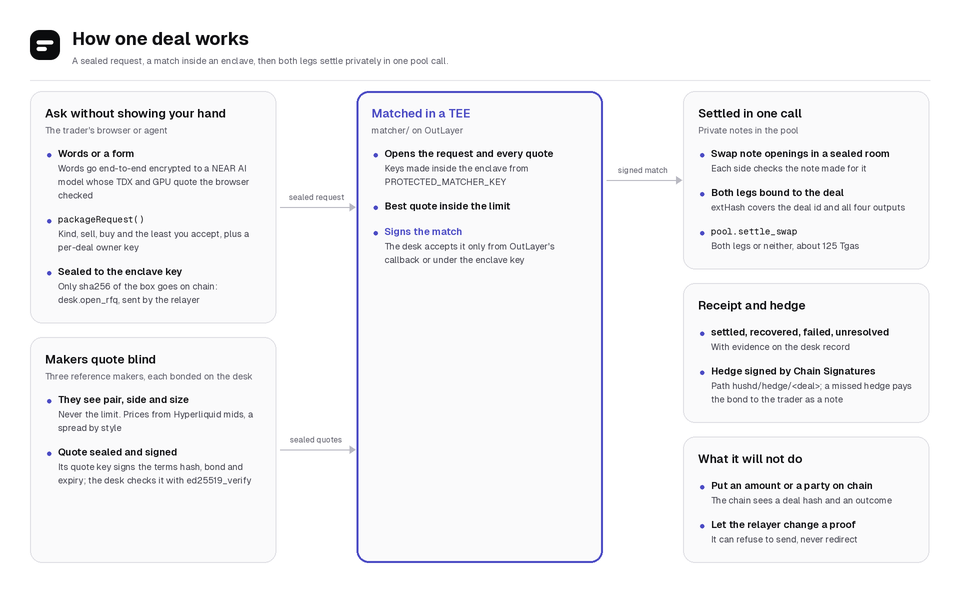
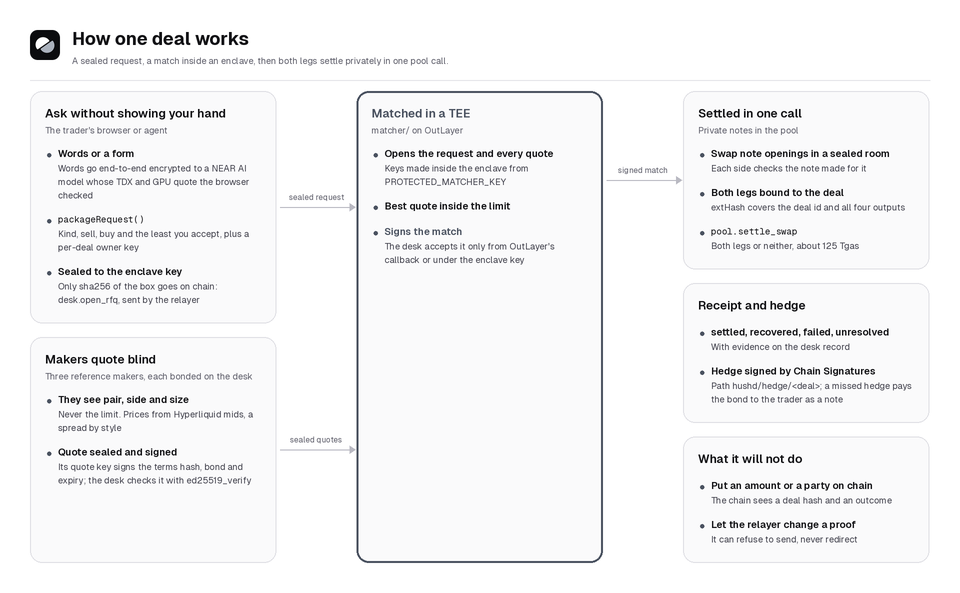
README art, llms.txt and docs for the redesign

diff --git a/tools/make_readme_art.py b/tools/make_readme_art.py
@@ -5,7 +5,7 @@
 
 Why it is built this way (each rule exists because the alternative was measured broken):
 - Colours come from the app's own CSS tokens (app/src/app/globals.css), parsed here, so a
-  figure cannot disagree with the product. The accent is the iris `--accent`.
+  figure cannot disagree with the product. The accent is the graphite steel `--accent`.
 - Every other light colour is the fixed diagram palette, so figures read as one set.
 - The text accent is derived (`readable_accent`) to clear 4.5:1 on both the card and the
   tinted band; the raw accent is decorative only. `audit` runs first and writes nothing on

diff --git a/README.md b/README.md
@@ -13,6 +13,7 @@ Everything runs on NEAR testnet with test tokens.
 ## Try it
 
 - **The desk:** [hushd.net/app](https://hushd.net/app). Sign in with a NEAR wallet or a passkey, take test tokens from the faucet, add them privately, then ask the desk in your own words or with the form.
+- **The trading screen:** [hushd.net/app/trade](https://hushd.net/app/trade). Live Hyperliquid prices for each pair the desk trades, a ticket that seals the request, the makers and their bonds, a payoff chart for hedged packages, and your requests, deals, hedge legs and receipts below.
 - **Check a proof:** [hushd.net/verify](https://hushd.net/verify). Two real ones made for `judge.testnet` are in `deployments/` (a payment that settled desk deal #2, and funds held).
 - **Agents:** connect the hosted, read-only MCP server at `https://hushd.net/mcp`, or run your own with a seed and spending limits (see [Agents](#agents)).
 - **The live claims, checked:** `pnpm verify` checks the deployment against this README (contracts, their code and the commit each was built from, the enclave key, bonded makers, settled deals, the services and the indexer, the agents' policy wallets, a trade checked by `intents.near` on mainnet, the intake attestation and a signed intake answer, private x402, the hosted MCP and an on-chain proof check) and prints PASS or FAIL for each.
@@ -155,7 +156,7 @@ That finding, the three Medium and six Low, and what changed for each are in [SE
 ## Mainnet
 
 Hushd runs on testnet, and every part is built to run on mainnet too: going live is a deploy and environment switches, with no code changes.
-`pnpm --filter @hushd/services mainnet:sandbox` runs the mainnet build end to end on a local node holding the real mainnet USDC, `wrap.near` and nBTC code: a deploy as `hushd.near`, the services on mainnet settings, and an agent that shields, sends, trades two pairs, cashes out, proves and pays over x402 (16 of 16 checks pass).
+`pnpm --filter @hushd/services mainnet:sandbox` runs the mainnet build end to end on a local node holding the real mainnet USDC, `wrap.near` and nBTC code: a deploy as `hushd.near`, the services on mainnet settings, and an agent that shields, sends, trades two pairs, cashes out, proves and pays over x402 (17 of 17 checks pass).
 Mainnet still needs a multi-party proving-key ceremony first (`circuits/scripts/ceremony.mjs`); [MAINNET.md](MAINNET.md) has what is ready, how it was tested and the steps to go live.
 
 ## Repository

diff --git a/CLAUDE.md b/CLAUDE.md
@@ -23,4 +23,10 @@
 - Mainnet is one code path with testnet: `HUSHD_NETWORK` (services, MCP) and `NEXT_PUBLIC_HUSHD_NETWORK` (app) pick everything. Never add a testnet-only constant; put it in the SDK's network config or a deploy profile (`services/scripts/deploy.ts`).
 - `mainnet:sandbox` needs the doubles' wasm, a native matcher build (`cargo build --release --target <host>` in matcher/) and Postgres; it uses ports 9080 and 9787-9792 and database hushd_sandbox, so it runs beside the testnet stack. It patches mainnet account ids into the node; the real tokens' admin roles belong to the sandbox's operators.
 - Mainnet cash outs pay the relayer a fee in the token itself: the relayer must be registered for storage on every token (the deploy does it).
+- Design is graphite: no hue anywhere (accent is steel, `--accent` in `app/src/app/globals.css`). Shared parts: `hd-frame`, `hd-crop` (crop marks), `hd-sheen`, `Spotlight`, `Reveal`, `hd-index`, `hd-grid-lines`.
+  CSS written outside an `@layer` beats Tailwind utilities (`fixed`, `absolute`, `bg-*`): put new classes in `@layer components`.
+- The mark lives in `app/src/components/Logo.tsx` (paths); `node app/scripts/make-icons.mjs` redraws the favicon and app icons from it, and `tools/make_readme_art.py` the README art (Pillow).
+- A second `next dev` beside another needs `NEXT_DIST_DIR=.next-<port>`; Next then rewrites `app/tsconfig.json` with those paths, so restore that file before committing.
+- The API rate-limits per client in four budgets (`limitFor` in `services/src/api.ts`: market, makers, flow, rest). Local test runs share one address, so many parallel browsers can still exhaust the free RPCs (FastNEAR answers 429 without CORS headers, which a browser sees as "Failed to fetch").
+- `PrivateWallet.planLeg` holds the notes it picks until `settled` or `release`: a wallet settling two deals at once never spends one note twice.
 - npm: `pnpm publish:packages` publishes protocol, sdk and mcp in that order; the `@hushd` scope is an npm org.

diff --git a/JUDGES.md b/JUDGES.md
@@ -7,7 +7,7 @@ A five-minute path through Hushd, then where to look in the code.
 1. Open [hushd.net/app](https://hushd.net/app) and sign in with a passkey (no wallet needed; the relayer opens the account on testnet).
 2. Balance, then Add privately: the faucet gives test USDC and one click moves it into the pool.
 3. Desk, then Describe it: type "sell 500 USDC for BTC at the best price". The draft comes from a NEAR AI model in a TEE; the line under the box shows the attestation the API verified, and the draft shows the signature your browser checked. (Or use Fill the form: Spot, 500 USDC, BTC.)
-4. Ask for quotes and watch the steps: committed on chain, sealed quotes arriving, matched in the enclave, settled in the pool. Open the deal page: the chain shows a deal and an outcome, not the amounts or you.
+4. Ask for quotes and watch the steps: committed on chain, sealed quotes arriving, matched in the enclave, settled in the pool. Open the deal page: the chain shows a deal and an outcome, not the amounts or you. Or trade from [Trade](https://hushd.net/app/trade): the same flow beside a live chart, with your deal settling in the panel below.
 5. Prove, then Exact payment for that deal, reader `judge.testnet`, then open the link. The checker verifies the proof in your browser and asks the pool contract to check it again.
 
 Already made for you: `deployments/judge-proof-payment.txt` (an exact payment that settled desk deal #2) and `deployments/judge-proof-funds.txt` (a balance of at least 1,000 USDC), both for `judge.testnet` until 6 December 2026. Paste one into [hushd.net/verify](https://hushd.net/verify) as `judge.testnet`, then as anyone else to see it refused.

diff --git a/MAINNET.md b/MAINNET.md
@@ -18,10 +18,11 @@ pnpm --filter @hushd/services mainnet:sandbox
 - **The deploy:** `scripts/deploy.ts` with the mainnet profile deploys `pool.hushd.near`, `desk.hushd.near` and `board.hushd.near` from the reproducible wasm.
   It then runs again once the makers hold tokens, which is how their inventory and bonds go in on mainnet.
 - **The services:** relayer, API, indexer, matcher, three makers and keeper, all with `HUSHD_NETWORK=mainnet`.
+- **The trading screen's prices:** the API's market routes answer on mainnet settings.
 - **The flows:** an agent drives the MCP server's tools: shield, a private send to a second agent, two spot trades (USDC for wNEAR, wNEAR for BTC) matched in the sealed auction and settled privately, a cash out with the mainnet relayer fee, a payment proof checked by the pool, and a private x402 payment to a maker.
 - **The books:** the pool's notes plus anything waiting to be claimed equal its real token balances, and the relayer received its fee.
 
-Result on 7 November 2026: 16 of 16 checks pass.
+Result on 9 November 2026: 17 of 17 checks pass.
 The deploy moved 26.1 NEAR into the new accounts, most of it held there to pay for contract storage rather than spent.
 
 Three things a sandbox cannot hold are stood in for:
